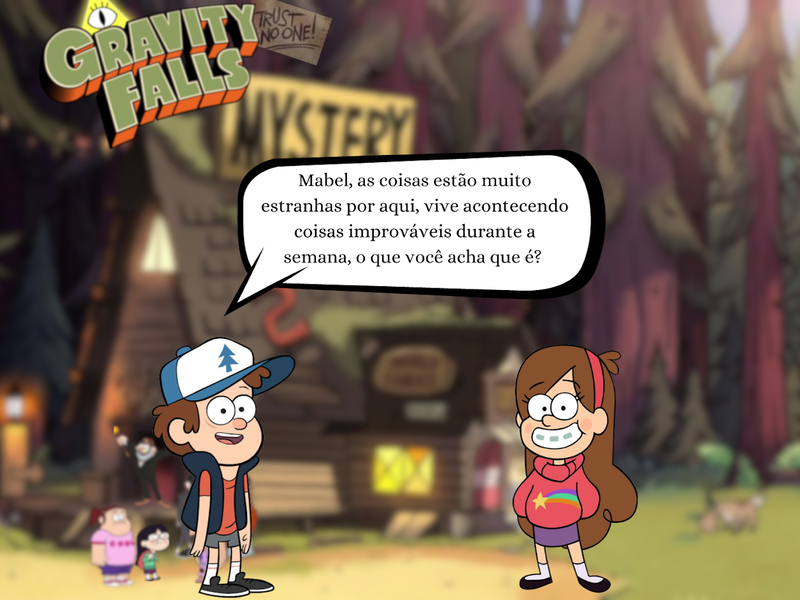
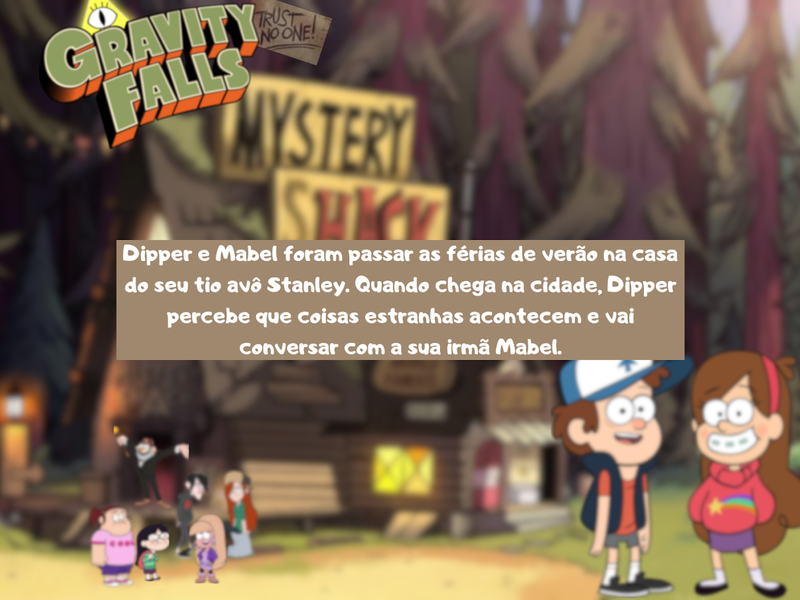
Add files via upload

diff --git a/intro.java b/intro.java
@@ -8,7 +8,12 @@ import greenfoot.*;  // (World, Actor, GreenfootImage, Greenfoot and MouseInfo)
  */
 public class intro extends World
 {
-
+    public int atraso = 10;
+    public int atraso1 = 10;
+    public int atraso2 = 10;
+    public int atraso3 = 10;
+    public int atraso4 = 10;
+    public int atraso5 = 10;
     /**
      * Constructor for objects of class intro.
      * 
@@ -21,28 +26,34 @@ public class intro extends World
     }
 
     public void act(){
-        //capa
-        if (Greenfoot.isKeyDown("enter")){
-            setBackground(new GreenfootImage("introducao.png"));
-        }
-        //contexto
-        if (Greenfoot.isKeyDown("enter")){
+        atraso1--;
+        //Diálogo Mário
+        if (Greenfoot.isKeyDown("enter") && (atraso1 < 1)){
             setBackground(new GreenfootImage("contexto.png"));
+            atraso2--;
         }
-        //fala dipper
-        if (Greenfoot.isKeyDown("enter")){
+        //
+        if(Greenfoot.isKeyDown("enter") && (atraso2 < 1)){
             setBackground(new GreenfootImage("dipperfalando.png"));
+            atraso3--;
         }
-        //fala mabel
-        if (Greenfoot.isKeyDown("enter")){
+        //Diálogo Mário
+        if (Greenfoot.isKeyDown("enter") && (atraso3 < 1)){
             setBackground(new GreenfootImage("falam.png"));
+            atraso4--;
+        }
+        //
+        if (Greenfoot.isKeyDown("enter") && (atraso4 < 1)){
+            setBackground(new GreenfootImage("antesdojogo.png"));
+            atraso5--;
         }
         //Iniciar o jogo
-        if (Greenfoot.isKeyDown("enter")){
+        if (Greenfoot.isKeyDown("enter") && (atraso4 < 1)){
             MysteryShack world = new MysteryShack();
             Greenfoot.setWorld(world);
         }
     }
+    
     /**
      * Prepara o mundo para o início do programa.
      * Ou seja: criar os objetos iniciais e adicioná-los ao mundo.

diff --git a/creditos.java b/creditos.java
@@ -1,0 +1,21 @@
+import greenfoot.*;  // (World, Actor, GreenfootImage, Greenfoot and MouseInfo)
+
+/**
+ * Write a description of class creditos here.
+ * 
+ * @author (your name) 
+ * @version (a version number or a date)
+ */
+public class creditos extends World
+{
+
+    /**
+     * Constructor for objects of class creditos.
+     * 
+     */
+    public creditos()
+    {    
+        // Create a new world with 600x400 cells with a cell size of 1x1 pixels.
+        super(600, 400, 1); 
+    }
+}
